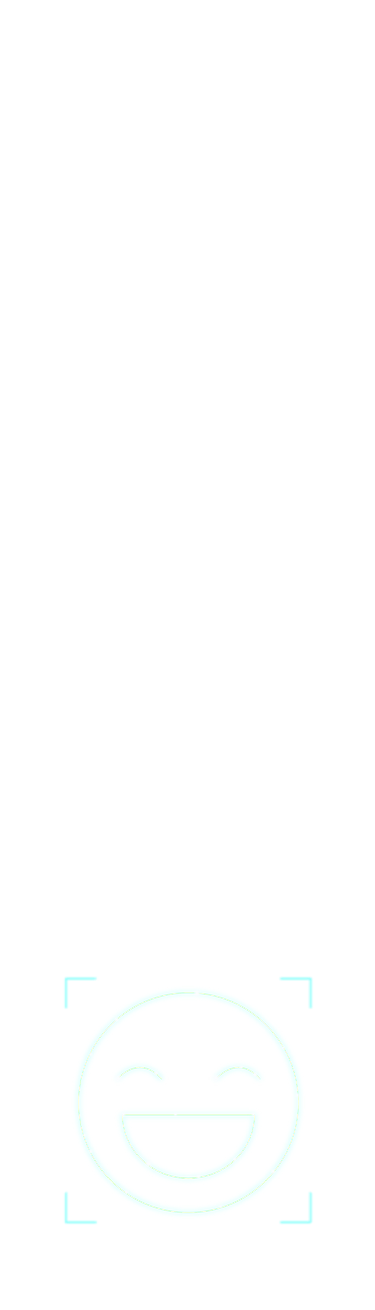
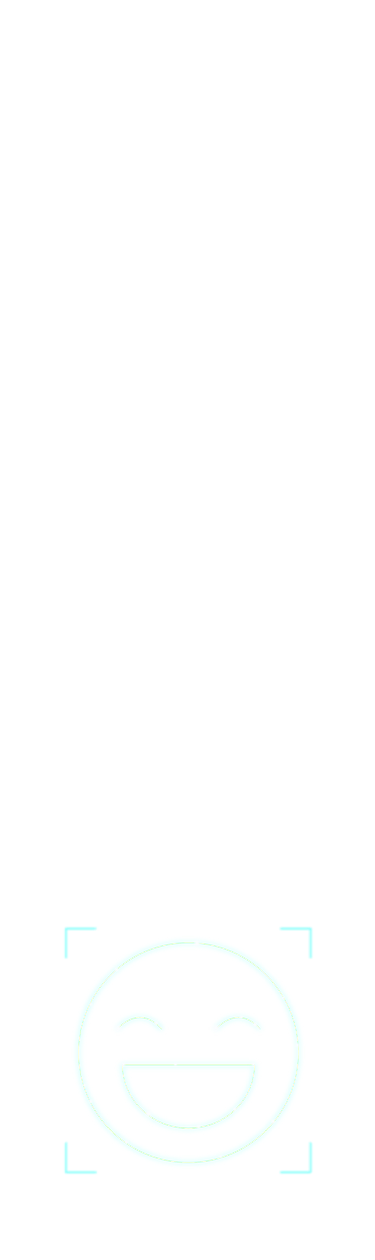
fix scketch kasf images

diff --git a/dist/css/index.css b/dist/css/index.css
@@ -1448,7 +1448,7 @@ body {
     border-right: 0.7995vw solid;
     border-right-color: white;
     padding: 0 3.09vw;
-    margin-bottom: 80.69vw; }
+    margin-bottom: 100.5vw; }
     .text-section .kashf-text .kashf-title {
       margin: 0;
       direction: rtl;
@@ -1522,21 +1522,20 @@ body {
     font-family: IRANYekanWeb; }
 
 .carousel-section .carousel {
-  height: 100%;
   width: 100%;
+  height: 100%;
   position: absolute;
   top: 0;
   z-index: 0; }
   .carousel-section .carousel div {
-    width: 100%;
-    height: 100%; }
+    height: inherit; }
     .carousel-section .carousel div picture {
       display: block;
-      width: 100%;
-      height: 100%; }
+      height: inherit; }
       .carousel-section .carousel div picture img {
         width: 100%;
-        height: 100%; }
+        height: auto;
+        object-fit: cover; }
 
 @keyframes fade_image_animate {
   0% {
@@ -1649,7 +1648,11 @@ body {
           -webkit-box-shadow: 0 0.17vw 1.36vw -0.341vw white;
           -moz-box-shadow: 0 0.17vw 1.36vw -0.341vw white; }
     .text-section .kashf-mobile-button {
-      display: none; } }
+      display: none; }
+  .carousel-section img {
+    width: 100%;
+    height: 100%;
+    object-fit: cover; } }
 
 /*!* Extra large devices (large laptops and desktops, 1200px and up) *!*/
 body {
@@ -1751,10 +1754,11 @@ html {
 .roshan {
   background-image: url("../../src/images/roshan/back-sky-mobile.jpg");
   background-repeat: no-repeat;
-  background-size: 100% 100%;
+  background-size: 100% auto;
   position: relative;
   top: -1px;
-  background-position-y: -2px; }
+  background-position-y: -2px;
+  height: 336vw; }
 
 .roshan-web {
   display: none; }
@@ -1808,7 +1812,8 @@ html {
   .roshan {
     background-image: url("../../src/images/roshan/back-sky-web.jpg");
     display: flex;
-    justify-content: center; }
+    justify-content: center;
+    height: auto; }
   .roshan-mobile {
     display: none; }
   .roshan-web {

diff --git a/src/scss/kashf.scss b/src/scss/kashf.scss
@@ -17,7 +17,7 @@
     border-right: 0.7995vw solid;
     border-right-color: white;
     padding: 0 3.09vw;
-    margin-bottom: 80.69vw;
+    margin-bottom: 100.5vw;
 
     .kashf-title {
       margin: 0;
@@ -120,24 +120,23 @@
 
 .carousel-section {
   .carousel {
-    height: 100%;
     width: 100%;
+    height: 100%;
     position: absolute;
     top: 0;
     z-index: $z-index-of-carousel-kashf;
 
     div {
-      width: 100%;
-      height: 100%;
+      height: inherit;
 
       picture {
         display: block;
-        width: 100%;
-        height: 100%;
+        height: inherit;
 
         img {
           width: 100%;
-          height: 100%;
+          height: auto;
+          object-fit: cover;
         }
       }
     }
@@ -291,6 +290,14 @@
 
     .kashf-mobile-button {
       display: none;
+    }
+  }
+
+  .carousel-section {
+    img {
+      width: 100%;
+      height: 100%;
+      object-fit: cover;
     }
   }
 }

diff --git a/src/scss/roshanPartss.scss b/src/scss/roshanPartss.scss
@@ -7,10 +7,11 @@ html {
 .roshan {
   background-image: url("../../src/images/roshan/back-sky-mobile.jpg");
   background-repeat: no-repeat;
-  background-size: 100% 100%;
+  background-size: 100% auto;
   position: relative;
   top: -1px;
   background-position-y: -2px;
+  height: 336vw;
 }
 
 .roshan-web {
@@ -82,6 +83,7 @@ html {
     background-image: url("../../src/images/roshan/back-sky-web.jpg");
     display: flex;
     justify-content: center;
+    height: auto;
   }
 
   .roshan-mobile {
